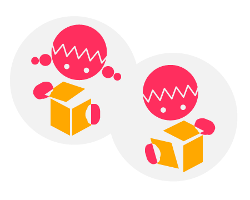
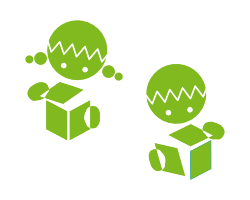
Updated the image for about section. Changed the color and removed the background circle

Changed region(s): [[0.084, 0.09, 0.504, 0.72], [0.56, 0.3, 0.896, 0.9]]

diff --git a/www/src/index.html b/www/src/index.html
@@ -80,7 +80,7 @@
             <div class="sub-section sub-section-even about-2">
                 <div class="container">
                 
-                <div class="col-md-5 col-md-push-8 text-center">
+                <div class="col-md-5 col-md-push-7 text-center">
                     <img src="img/small-amount-production.png">
                 </div>
                 <div class="col-md-7 col-md-pull-5">
@@ -125,7 +125,7 @@
                 <div class="container">
                 <div class="row">
                 
-                <div class="col-md-5 col-md-push-8 text-center">
+                <div class="col-md-5 col-md-push-7 text-center">
                     <img src="img/classroom-friendly.png">                    
                 </div>
                 <div class="col-md-7 col-md-pull-5">
